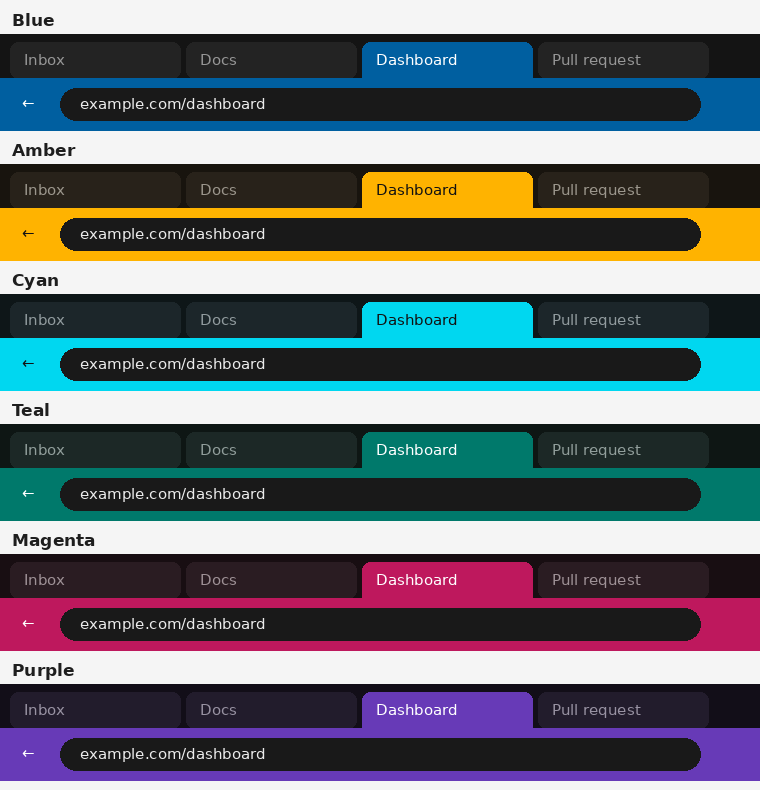
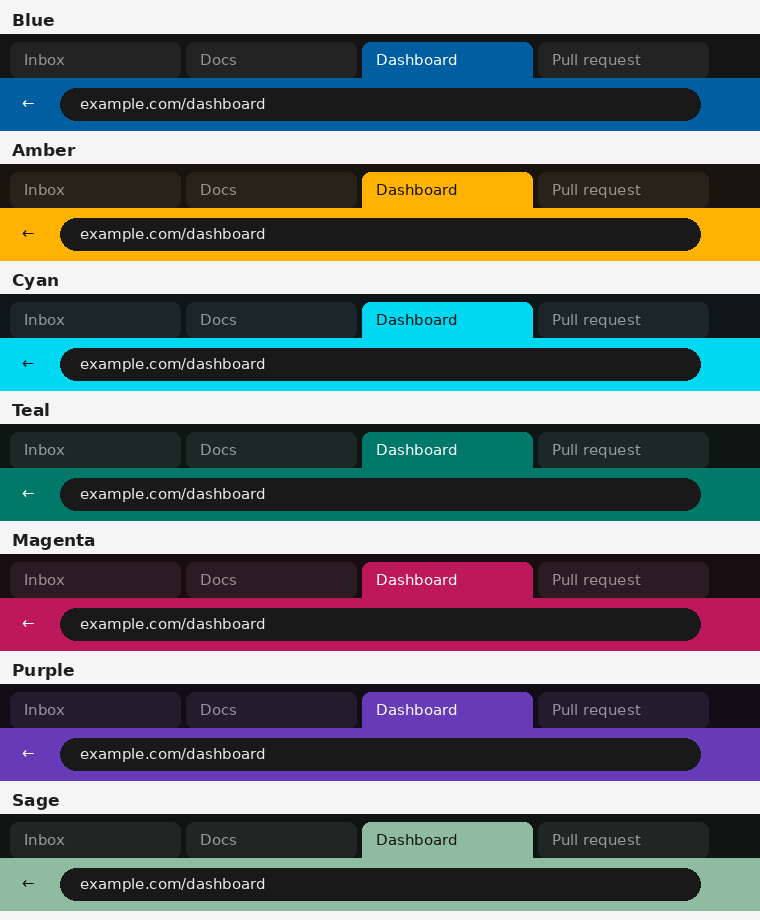
Add ActiveTabTheme color variants and Edge instructions

diff --git a/README.md b/README.md
@@ -1,14 +1,14 @@
 # chrome-extensions
 
-A collection of small, dependency-free Chrome extensions and themes I build for my own use, mostly to make web development and everyday browsing easier.
+A collection of small, dependency-free extensions and themes for Chrome and Microsoft Edge that I build for my own use, mostly to make web development and everyday browsing easier.
 
-Each extension lives in its own folder with its own `manifest.json` and README. There is no build step: every folder can be loaded into Chrome as it is.
+Each extension lives in its own folder with its own `manifest.json` and README. There is no build step: every folder can be loaded into Chrome or Edge as it is.
 
 ## Extensions
 
 | Name | Type | What it does | Permissions |
 |---|---|---|---|
-| [ActiveTabTheme](ActiveTabTheme/) | Theme | Dark themes for Chrome and Edge that make the active tab easy to spot, in six color variants so each browser can have its own color. | None |
+| [ActiveTabTheme](ActiveTabTheme/) | Theme | Dark themes for Chrome and Edge that make the active tab easy to spot, in seven color variants so each browser can have its own color. | None |
 | [ConsoleErrorBadge](ConsoleErrorBadge/) | Developer tool | Shows how many JavaScript errors the current page has thrown on the toolbar icon, with a popup listing each error and its stack trace. | `storage`, content scripts on all sites |
 | [FakeDataFiller](FakeDataFiller/) | Developer tool | Fills forms with realistic fake names, emails, addresses and test card details with one click or **Alt+Shift+F**. | `activeTab`, `scripting` |
 | [HoverInspector](HoverInspector/) | Developer tool | Hold **Ctrl** and hover any element to see a DevTools-style box with its tag, size, color, font, contrast, image alt and source, and link href and target. | `storage`, content scripts on all sites |
@@ -17,7 +17,8 @@ Each extension lives in its own folder with its own `manifest.json` and README. 
 
 ```
 chrome-extensions/
-├── ActiveTabTheme/       Dark themes with a highlighted active tab (6 variants)
+├── ActiveTabTheme/       Dark themes with a highlighted active tab
+│   └── variants/         Amber, Cyan, Teal, Magenta, Purple and Sage (Blue is the main folder)
 ├── ConsoleErrorBadge/    JavaScript error counter on the toolbar icon
 ├── FakeDataFiller/       One-click form filler for testing
 ├── HoverInspector/       Element details on hover without DevTools
@@ -31,11 +32,27 @@ chrome-extensions/
    ```bash
    git clone https://github.com/darioernesto-roca/chrome-extensions.git
    ```
-2. Open `chrome://extensions` in Chrome.
-3. Turn on **Developer mode** (toggle in the top-right corner).
-4. Click **Load unpacked** and select the folder of the extension you want, for example `FakeDataFiller`.
+2. Open the extensions page and turn on **Developer mode**:
+   - **Chrome:** `chrome://extensions` (toggle in the top-right corner)
+   - **Edge:** `edge://extensions` (toggle in the left sidebar)
+3. Click **Load unpacked** and select the folder of the extension you want, for example `FakeDataFiller`.
 
-Repeat step 4 for each extension you want. To update after pulling changes, click the reload icon on the extension in `chrome://extensions`.
+Repeat step 3 for each extension you want. To update after pulling changes, click the reload icon on the extension in the extensions page.
+
+Themes work a little differently: they don't appear in the extensions list, and you update or switch one by loading its folder again with **Load unpacked**. The active theme is shown in **Settings → Appearance**.
+
+### Using Chrome and Edge side by side
+
+Load a different ActiveTabTheme variant in each browser so you can tell them apart at a glance, for example **Blue in Chrome** and **Amber in Edge**. A browser uses only one theme at a time. See the [ActiveTabTheme README](ActiveTabTheme/) for all variants and suggested pairs.
+
+## Quick reference
+
+| Extension | How to use it |
+|---|---|
+| ActiveTabTheme | Always on once loaded |
+| ConsoleErrorBadge | Watch the red count on its icon; click the icon for the error list |
+| FakeDataFiller | Click its icon or press **Alt+Shift+F** on a page with a form |
+| HoverInspector | Click its icon to turn it on (blue **ON** badge), then hold **Ctrl** and hover an element |
 
 ## Guidelines for this repo
 
@@ -54,7 +71,9 @@ Repeat step 4 for each extension you want. To update after pulling changes, clic
 
 ## Compatibility
 
-Built and tested in Google Chrome on Windows. The extensions should also work in other Chromium-based browsers such as Edge and Brave.
+Built for Google Chrome and Microsoft Edge on Windows. Because both browsers are based on Chromium, every extension and theme here loads the same way in each. They should also work in other Chromium-based browsers such as Brave.
+
+Themes don't apply to Incognito (Chrome) or InPrivate (Edge) windows, which always use the browser's own dark look.
 
 ## License
 

diff --git a/ActiveTabTheme/README.md b/ActiveTabTheme/README.md
@@ -4,9 +4,9 @@ Dark Chrome and Edge themes that make the **active tab easy to spot**.
 
 Chrome's default dark mode gives the active tab only a subtle change in shade, so it can be hard to tell which tab you are on. These themes keep the browser dark and give the active tab and toolbar a strong, saturated color, while inactive tabs stay dark with dimmed titles.
 
-There are six color variants. Use a different one in each browser (for example **Blue in Chrome** and **Amber in Edge**) to tell at a glance which browser you're working in.
+There are seven color variants. Use a different one in each browser (for example **Blue in Chrome** and **Amber in Edge**) to tell at a glance which browser you're working in.
 
-![Preview of the six variants](preview.png)
+![Preview of the seven variants](preview.png)
 
 ## Variants
 
@@ -18,6 +18,7 @@ There are six color variants. Use a different one in each browser (for example *
 | **Teal** | `variants/Teal/` | `rgb(0, 121, 107)` | White | Everyday use |
 | **Magenta** | `variants/Magenta/` | `rgb(190, 24, 93)` | White | Everyday use; very distinct from blue |
 | **Purple** | `variants/Purple/` | `rgb(103, 58, 183)` | White | Everyday use |
+| **Sage** | `variants/Sage/` | `rgb(143, 188, 160)` | Near-black | Long sessions; soft and muted but still very visible |
 
 Each variant also tints the dark tab strip slightly toward its own color, so the browser stays recognizable even when its window isn't focused.
 
@@ -33,8 +34,9 @@ All text meets WCAG AA contrast (4.5:1 or higher).
 | Teal | 5.3 : 1 | 2.9 : 1 |
 | Magenta | 6.0 : 1 | 2.7 : 1 |
 | Purple | 7.3 : 1 | 2.3 : 1 |
+| Sage | 8.8 : 1 | **7.2 : 1** |
 
-The second column is what makes the active tab stand out. Amber and Cyan are bright tabs with dark text, so they stand out almost four times more than the others. That makes them the most readable in sunlight or on a dim, glossy screen. The other variants rely more on color than brightness.
+The second column is what makes the active tab stand out. Amber, Cyan and Sage are light tabs with dark text, so they stand out about three to four times more than the others. Amber and Cyan are the most readable in sunlight or on a dim, glossy screen. Sage gets most of that visibility with a softer, less saturated color that is easier on the eyes over long sessions. The other variants rely more on color than brightness.
 
 ### Suggested pairs
 
@@ -43,6 +45,7 @@ The second column is what makes the active tab stand out. Amber and Cyan are bri
 | Blue | Amber | Cool vs. warm, and white vs. dark text. Hardest to confuse. |
 | Cyan | Magenta | Both very vivid, opposite hues. |
 | Teal | Purple | Softer pair for low-light work. |
+| Sage | Magenta | One soft, one vivid; clearly different and both easy to see. |
 
 Avoid Blue in Edge if you want to tell the browsers apart, since Edge's own branding is blue.
 
@@ -65,6 +68,16 @@ Avoid Blue in Edge if you want to tell the browsers apart, since Edge's own bran
 
 A browser uses one theme at a time. Loading a second theme replaces the first, so load only one variant per browser (or per browser profile).
 
+### Where the theme appears
+
+Themes are **not listed in `chrome://extensions`**, even though they are loaded with **Load unpacked**. To see which theme is active, go to **Settings → Appearance → Theme** in Chrome, or `edge://settings/appearance` in Edge.
+
+### Switching colors
+
+To change color, load another variant folder with **Load unpacked**. It replaces the current theme immediately; there's nothing to uninstall first.
+
+Each variant must be its own folder because a Chrome theme is a fixed set of colors with no code. Chrome doesn't let an extension change theme colors while it runs, so one extension can't offer a color picker that switches between them.
+
 ## Customizing
 
 Each variant is a single `manifest.json`. The keys that matter most:
@@ -77,7 +90,7 @@ Each variant is a single `manifest.json`. The keys that matter most:
 | `tab_background_text` | Inactive tab titles. Keeping these dimmed helps the active tab stand out. |
 | `frame` | The tab strip behind the tabs |
 
-After editing, click the reload icon on the theme in `chrome://extensions` or `edge://extensions`.
+After editing, apply the change by loading the same folder again with **Load unpacked**. Themes don't appear in the extensions list, so they have no reload button.
 
 ## Removing the theme
 
